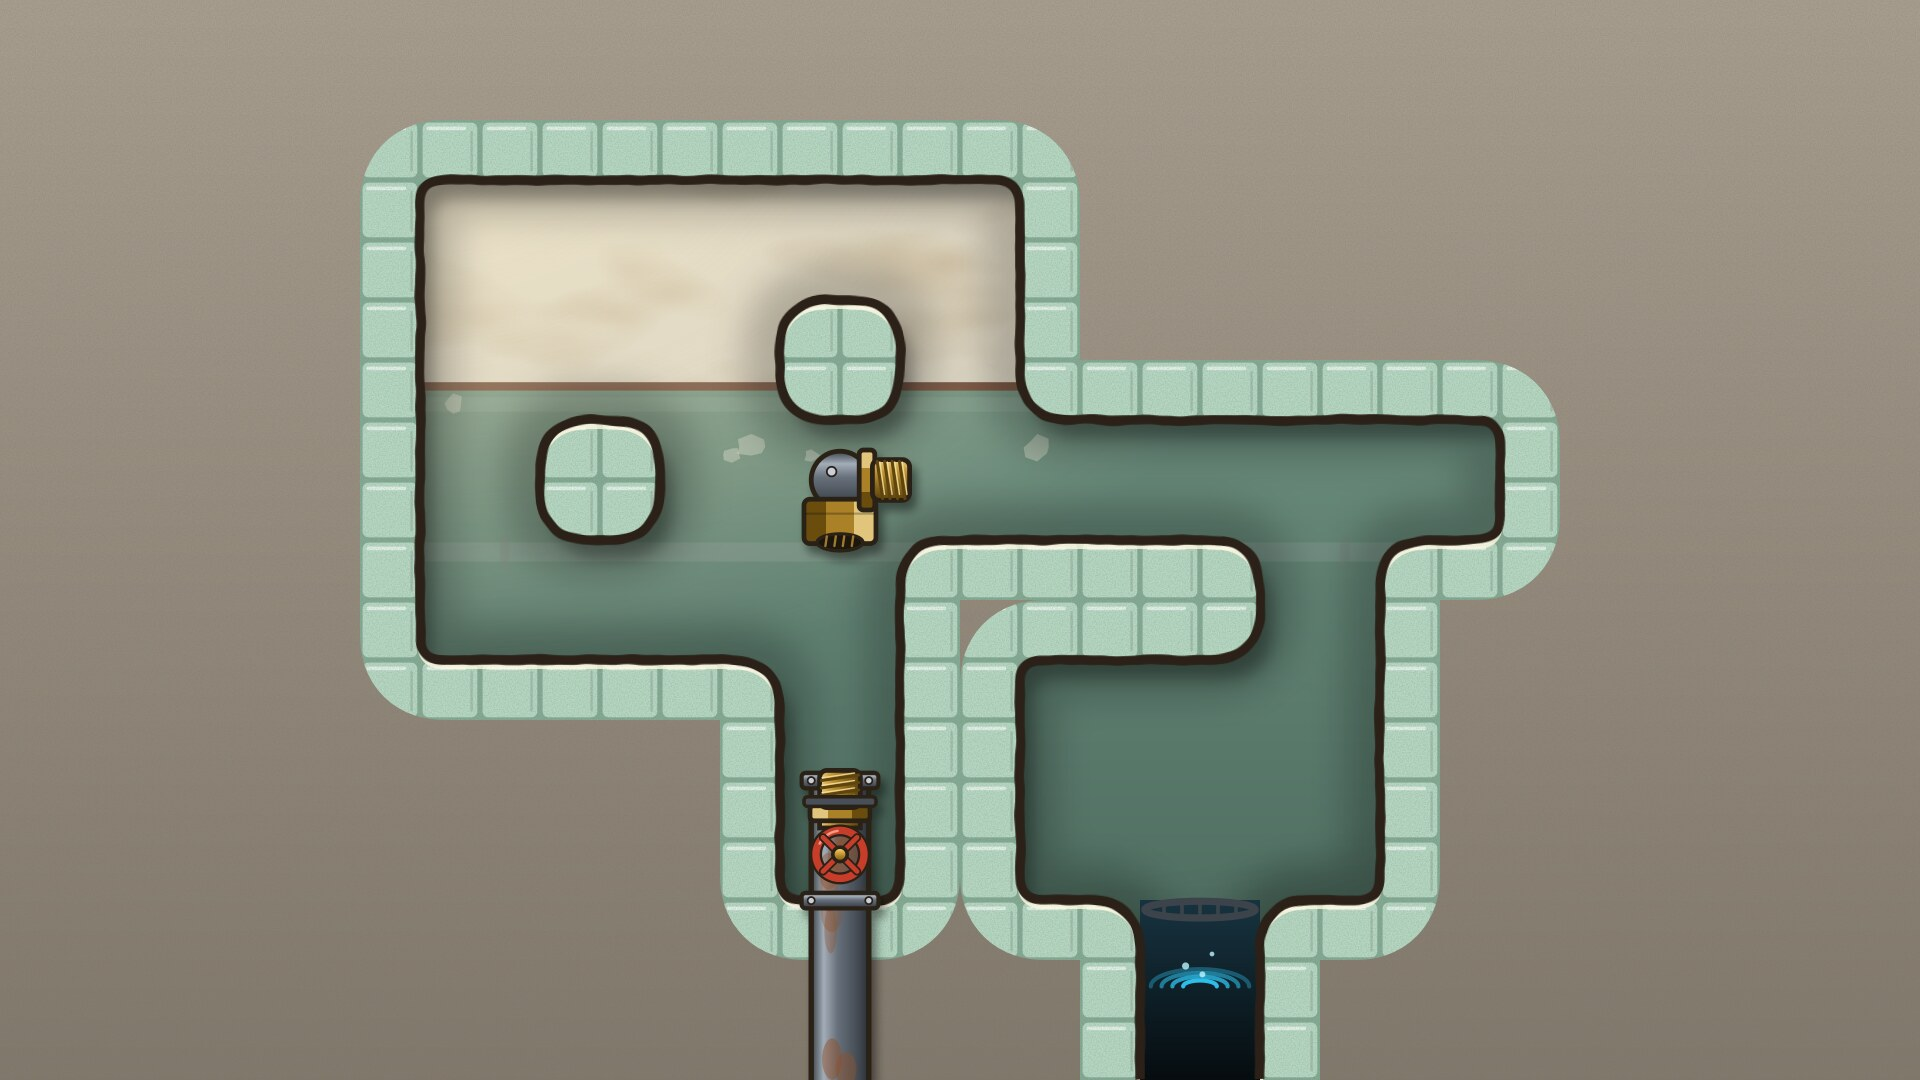
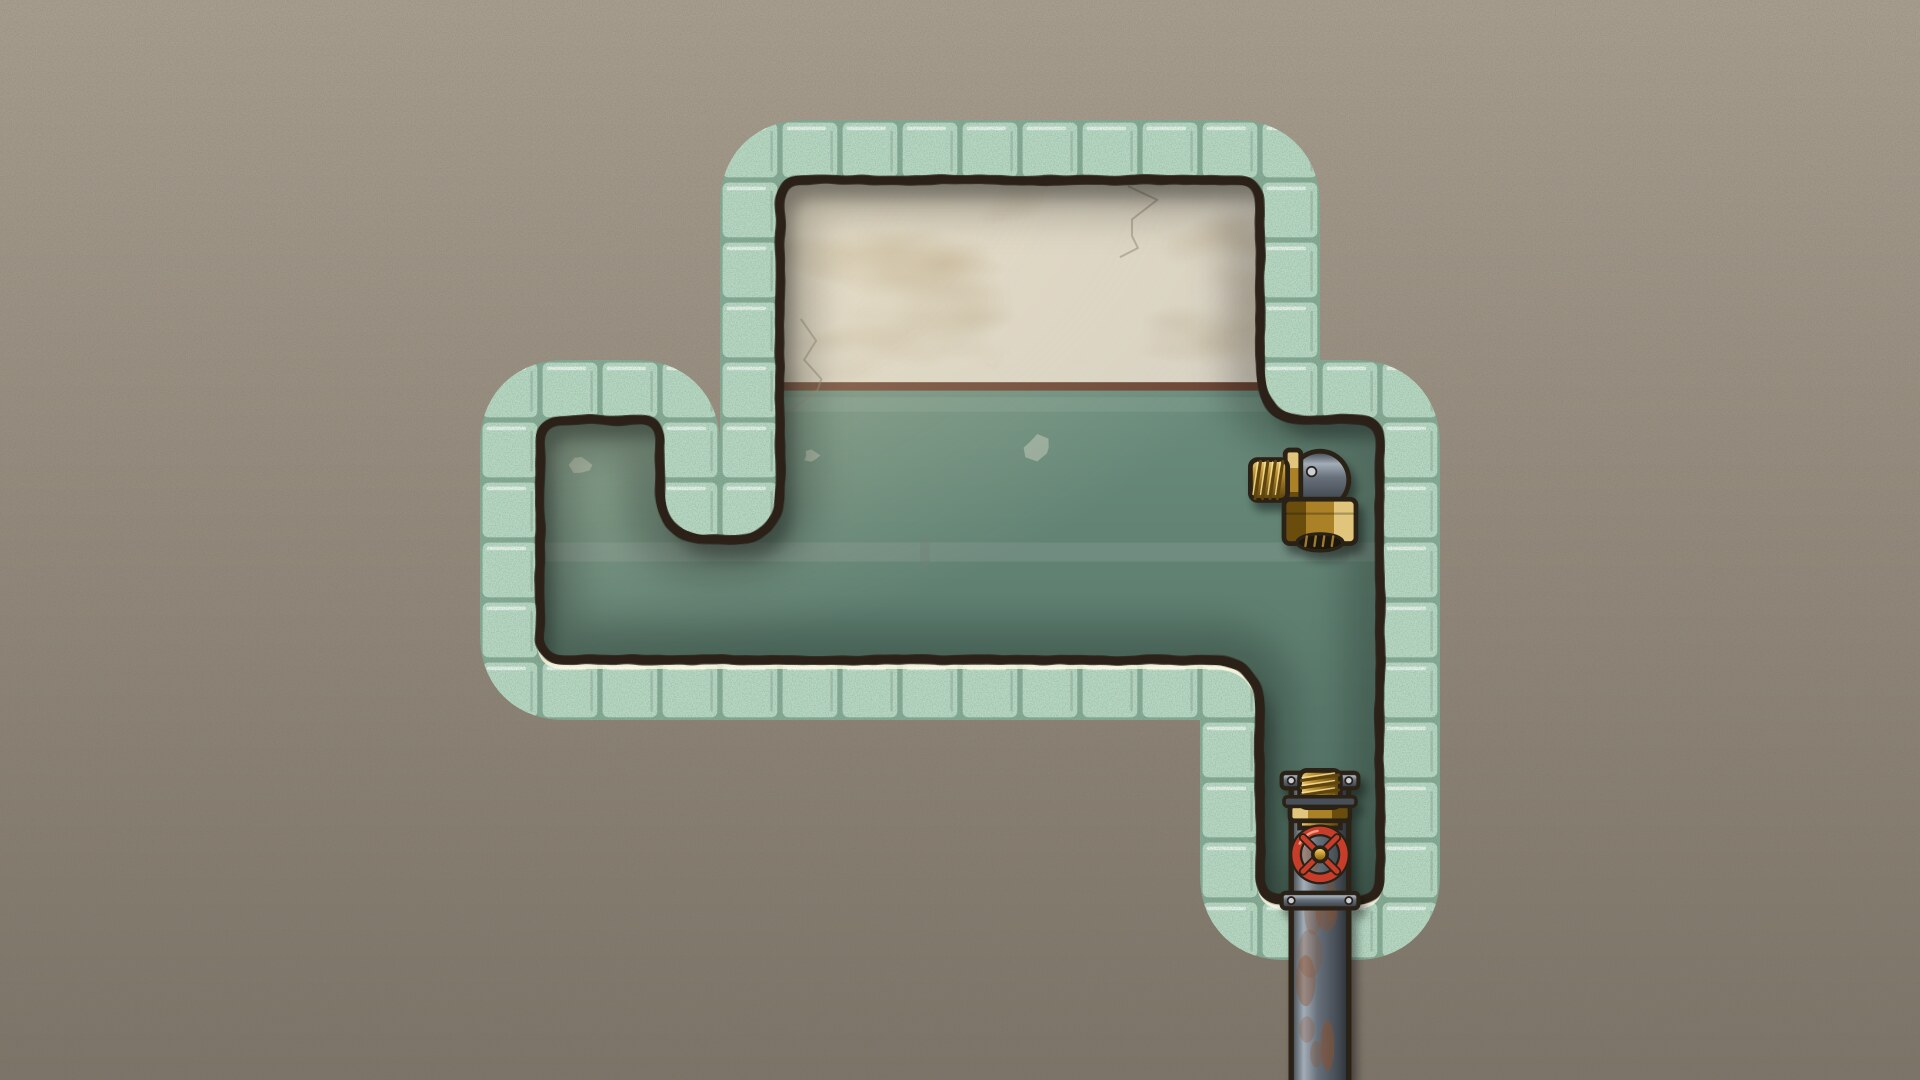
Кв. 4: раскладка пересобрана под новые ворота (прогулка 5, скрытых 68 %), отчёты 1–6, новый фон
Claude-Session: https://claude.ai/code/session_01KTF9zcDbthXae1taWntBSd

Changed region(s): [[0.1875, 0.0917, 0.8125, 1.0]]

diff --git a/build/l4c/REPORT.md b/build/l4c/REPORT.md
@@ -1,0 +1,53 @@
+# Кв. 4 «Резьба» — доводка под новые ворота (28.09.2026)
+
+Решения и кадры здесь не приводятся — только замысел, метрики и выводы. Журнал кандидатов — LOG.md.
+Принят в levels/04.lua: **k35.lua** (запасной — k23.lua: та же идея, верхняя комната шире).
+
+## Было → стало
+«Было» — прежняя раскладка levels/04.lua с честной разметкой и новыми абляциями (b0.lua).
+
+| разметка | версия | ходов | состояний | скрытых (≥40) | обезьяна (≤0,2) | глубина (≥8) | прогулка | наобум | ширина |
+|---|---|---|---|---|---|---|---|---|---|
+| основная | было | 26 | 2700 | 18 % | 0,03 % | 17 | 10 | 0,001 % | 3 |
+| основная | стало (k35) | 16 | 6176 | 68 % | 0,03 % | 17 | 5 | 0,034 % | 3 |
+| самая широкая честная | было | 26 | 2700 | 0 % | 0,06 % | 0 | 10 | — | — |
+| самая широкая честная | стало (k35) | 16 | 6176 | 50 % | 0,08 % | 12 | 5 | 0,034 % | 3 |
+
+Вывод по «было»: прежние 66 % скрытых держались на том, что у уровня не было видимого проигрыша вовсе;
+при честной разметке прежняя кв. 4 ворота не проходила.
+
+k35 также: вынужденных ходов подряд 0; выигрышная конфигурация одна; живых состояний, помеченных видимыми, 0
+во всех версиях разметки; тупиков 78,8 %, ложных веток 4, событий с деталями 5; автопрохождение WIN за 16 ходов.
+Абляции: без муфты, без ниппеля, «сборка заранее» (труба собрана с самого начала), «по одной нельзя» (фильтр роли:
+запрещено состояние «муфта уже в шахте, ниппель ещё свободен») — все нерешаемы. Контрольные фильтры решаемы
+(«сборки вне шахты нет», «без толчка цепочкой», «Лапидус не заходит в кладовку», «ниппель не падает влево»,
+«ниппель не раньше муфты») — фильтр роли узкий.
+
+## Что изменено (общими словами)
+- Финальная прогулка 10 → 4: выход отвода повёрнут к машинке, машинка у шахты, последнее звено — сам Лапидус
+  мостиком над коридором.
+- Начальная прогулка 10 → 5: старт у машинки; ниппель лежит на машинке, муфта под ней.
+- Кладовка: левый конец коридора — тупичок, куда ведёт одна колонка; деталь, вдвинутая в низ колонки или упавшая
+  туда, запечатывает кладовку. Вторая, позиционная ловушка, от «ага» не зависит.
+- Поле 11×8 → 9×8. Идея, детали, машинка, отвод, длина 2–4 и тексты прежние; подсказка №1 точна.
+- Скрытые тупики по типам: собранная заранее пара — 302 состояния; «ниппель раньше муфты» — 1183;
+  запечатанная кладовка — 1284. Ошибки «пара» и «ниппель раньше» — в одном ходе от пути, области глубиной 11 и 14.
+
+## Разметки видимого проигрыша
+- Основная (vis_main.lua, вставлена в уровень): деталь смыта; гнездо муфты замуровано ниппелем; свободная деталь
+  в «мёртвой клетке» (статическая карта, как углы в сокобане); пара зажата со всех сторон.
+- Самая широкая честная (vis_wide.lua): плюс любая свинченная пара и неверный порядок деталей на полу.
+  Позиционные тупики (кладовка) оставлены скрытыми — как в проверке r9 кв. 6.
+- Проверка «основная + кладовка видима»: скрытых 53 %, обезьяна 0,068 %, глубина 14 — ворота держатся.
+- Заведомо нечестная оценка запаса «всё видимо»: скрытых 0 %, обезьяна 0,17 %.
+
+## Оговорка
+При самой широкой разметке ошибка из подсказки №1 (собрать трубу заранее) видна сразу после сборки: две клетки
+против входа в одну. Это следует из самой идеи «не пролезает». Ворота HANDOFF («ведёт в тупик») выполнены
+при обеих разметках; «ведёт в скрытый тупик» — только при основной.
+
+## Открытые вопросы к Lao
+1. Принять, что при широкой разметке ошибка подсказки №1 видна сразу после сборки? Иначе — менять идею.
+2. Кладовка остаётся? Без неё (k29) скрытых 32 % — ворота не проходятся.
+3. Коридор ходов 15–40 (у уровня 16 при стартовых 30–50 из §7).
+4. Арт: верх и низ машинки должны читаться глухими — сейчас ниппель над ней и муфта под ней выглядят вкрученными.

diff --git a/reports/metrics.md b/reports/metrics.md
@@ -9,13 +9,13 @@
 | 1 | «Не той стороной» | 9×7 | 2–4 | 0 | 211 (≤ 20000) | 15 (12–30) | 38.4% (≥ 25%) | 0 (≥ 1) | 1 | 0.76 % | 3 (3) | без крюка: нерешаем ✓; крюк без крепления: нерешаем ✓ | ⚠ мало ложных веток |
 | 2 | «Скалолаз» | 9×10 | 2–4 | 0 | 172 (≤ 50000) | 19 (22–38) | 53.5% (≥ 30%) | 13 (≥ 2) | 1 | 0 % | 1 (1) | крючья замурованы: нерешаем ✓; резьба крючьев: нерешаем ✓ | ⚠ ходы вне коридора |
 | 3 | «Мыло» | 11×8 | 2–5 | 0 | 9040 (≤ 100000) | 43 (25–45) | 80.3% (≥ 35%) | 9 (≥ 2) | 1 | 0 % | 6 (3) | без фаянса: нерешаем ✓ | ✅ |
-| 4 | «Резьба» | 11×8 | 2–4 | 0 | 2700 (≤ 300000) | 26 (30–50) | 68.6% (≥ 40%) | 6 (≥ 2) | 1 | 0 % | 6 (3) | без деталей: нерешаем ✓ | ⚠ ходы вне коридора |
+| 4 | «Резьба» | 9×8 | 2–4 | 0 | 6176 (≤ 300000) | 16 (15–40) | 78.8% (≥ 40%) | 4 (≥ 2) | 1 | 0.03 % | 3 (3) | без муфты: нерешаем ✓; без ниппеля: нерешаем ✓; сборка заранее: нерешаем ✓; по одной нельзя: нерешаем ✓ | ✅ |
 | 5 | «Лишний выход» | 9×7 | 2–4 | 0 | 1682 (≤ 100000) | 15 (12–40) | 41.7% (≥ 35%) | 1 (≥ 1) | 1 | 0.05 % | 1 (1) | без заглушки: нерешаем ✓; тройник заглушён заранее: нерешаем ✓; ступенька запрещена: нерешаем ✓ | ✅ |
 | 6 | «Намертво» | 11×5 | 3–5 | 0 | 30969 (≤ 1000000) | 23 (15–40) | 86.2% (≥ 50%) | 10 (≥ 3) | 1 | 0 % | 2 (2) | без ниппеля: нерешаем ✓; без муфты: нерешаем ✓; пара не держит муфту над сливом: нерешаем ✓; ниппель не переходит муфту поверху: нерешаем ✓ | ✅ |
 
 Принятые отклонения (⚠):
 - Кв. 1: ложных веток 0: на 211 состояниях областей ≥ 50 не бывает, ошибки здесь наказываются сразу (слив), а не тихим тупиком.
 - Кв. 2: 19 ходов при коридоре 22–38: перебор 384 вариантов не дал 22+ с сохранением ловушек; решает плейтест.
-- Кв. 4: 26 ходов при коридоре 30–50: старт перенесён к деталям (25.09), дорога без событий 18 → 10 ходов, ложных веток 2 → 6.
+- Кв. 4: раскладка пересобрана 28.09 (build/l4c, k35): 16 ходов при стартовом коридоре 30–50 — в предложенных 15–40; прогулка 10 → 5, скрытых тупиков 68 % (при самой широкой честной разметке 50 %); «ага» доказана абляциями «сборка заранее» и «по одной нельзя».
 - Кв. 5: минимальная раскладка 9×7: 15 ходов вместо коридора 35–60 — по решению Lao красота важнее длины; идея §6 доказана абляцией «ступенька запрещена».
 - Кв. 6: ядро «муфтой вперёд» 11×5 (второй поиск 28.09, build/l6c): 23 хода в коридоре; «ага» доказана абляциями «пара не держит муфту над сливом» и «ниппель не переходит муфту поверху».

diff --git a/BUILDLOG.md b/BUILDLOG.md
@@ -189,3 +189,7 @@
   (art/export_lvl.py — быстрая выгрузка арта отдельных квартир).
 - 28.09: карточка «7 · Поднимает, но не носит» выгружена (card06) и выводится на экране заявки кв. 6 справа от записки
   (texts.card в файле уровня, Play:drawRequest). Быстрый экспорт: `python3 art/export_lvl.py 6 [N ...]` — фон, детали, карточка.
+- 28.09: кв. 4 пересобрана под новые ворота (build/l4c/REPORT.md, кандидат k35): 9×8, 16 ходов, прогулка 10 → 5,
+  скрытых 68 % (50 % при самой широкой честной разметке), обезьяна 0,03 %, глубина 17, наобум 0,034 %, ширина 3;
+  абляции «сборка заранее» и «по одной нельзя» нерешаемы. Вывод: прежние 66 % скрытых держались на отсутствии
+  видимого проигрыша (честно — 18 %). run_all 1–6, автопрохождение 01–06 WIN, новый фон lvl04.

diff --git a/HANDOFF.md b/HANDOFF.md
@@ -8,7 +8,8 @@
 
 > **28.09.2026 — кв. 6 пересобрана:** ядро «муфтой вперёд» (build/l6c/README.md) принято Lao и стоит в levels/06.lua,
 > проходит все ворота. Пункты 1–2 раздела «ДАЛЬШЕ» закрыты (карточка «7 · Поднимает, но не носит» — на экране заявки кв. 6,
-> поле texts.card); дальше кв. 4, 3. Быстрый экспорт арта квартиры: `python3 art/export_lvl.py N`.
+> поле texts.card). П. 3 закрыт: кв. 4 пересобрана (build/l4c/REPORT.md, 16 ходов, прогулка 5, скрытых 68 %).
+> Дальше кв. 3 (идёт), кв. 7 (идёт поиск ядра). Быстрый экспорт арта квартиры: `python3 art/export_lvl.py N`.
 
 ## Как продолжить
 1. `mkdir -p /home/claude/lapidus && cd /home/claude && unzip -q /mnt/user-data/uploads/lapidus_checkpoint_phase6a.zip`

diff --git a/WALKTHROUGH_SPOILERS.md b/WALKTHROUGH_SPOILERS.md
@@ -20,11 +20,10 @@
 31. Н→  32. Н→  33. Г→  34. Г↑  35. Г→  36. Г↑  37. Г↑  38. Г↑  39. Г↑  40. Г→  
 41. Г→  42. Н↑  43. Н↑  
 
-## Кв. 4 · «Резьба» — 26 ходов
+## Кв. 4 · «Резьба» — 16 ходов
 
-1. Н←  2. Н↑  3. Г↑  4. Н↑  5. Н↑  6. Н←  7. Н←  8. Н↓  9. Н↓  10. Н↓  
-11. Н→  12. Н→  13. Г↑  14. Г→  15. Н→  16. Н→  17. Н↑  18. Н↑  19. Н↑  20. Н→  
-21. Н→  22. Н↓  23. Н↓  24. Н→  25. Н→  26. Н→  
+1. Н←  2. Н←  3. Н↓  4. Н↓  5. Н↓  6. Н→  7. Н→  8. Г↑  9. Г→  10. Н→  
+11. Н→  12. Н→  13. Н↑  14. Н←  15. Г→  16. Г↑  
 
 ## Кв. 5 · «Лишний выход» — 15 ходов
 
